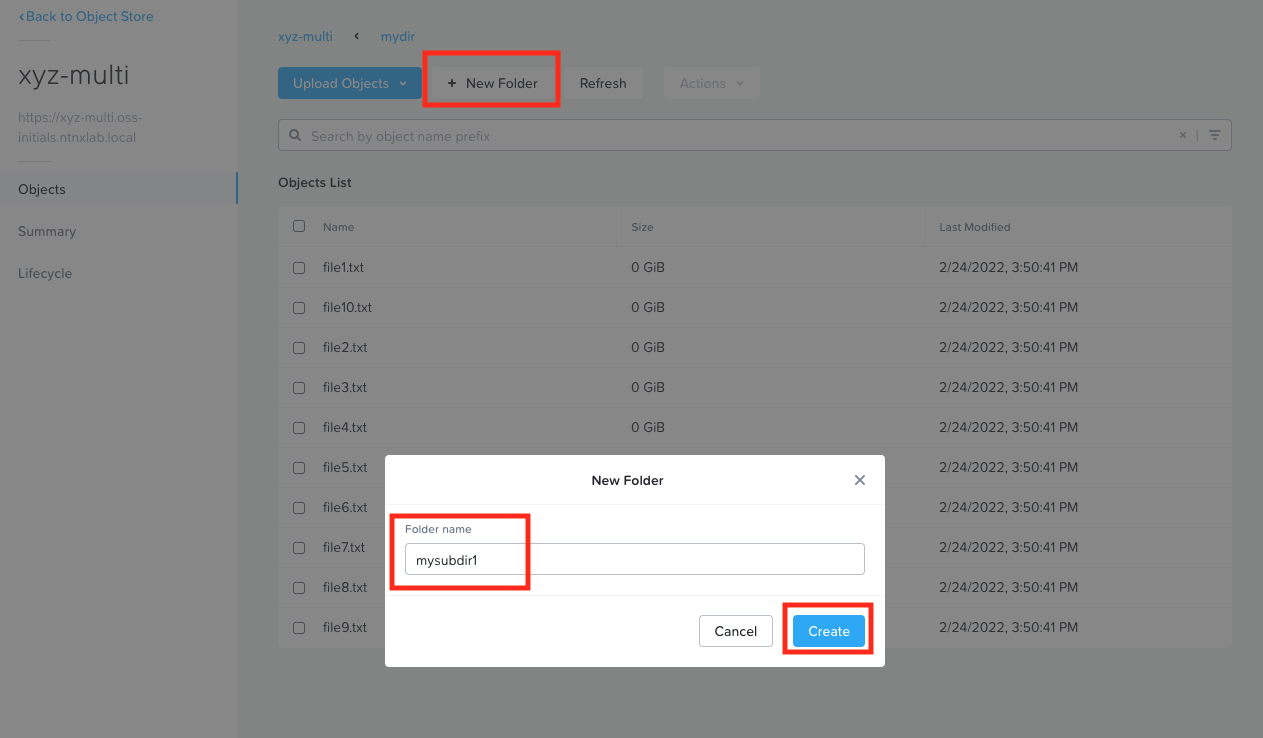
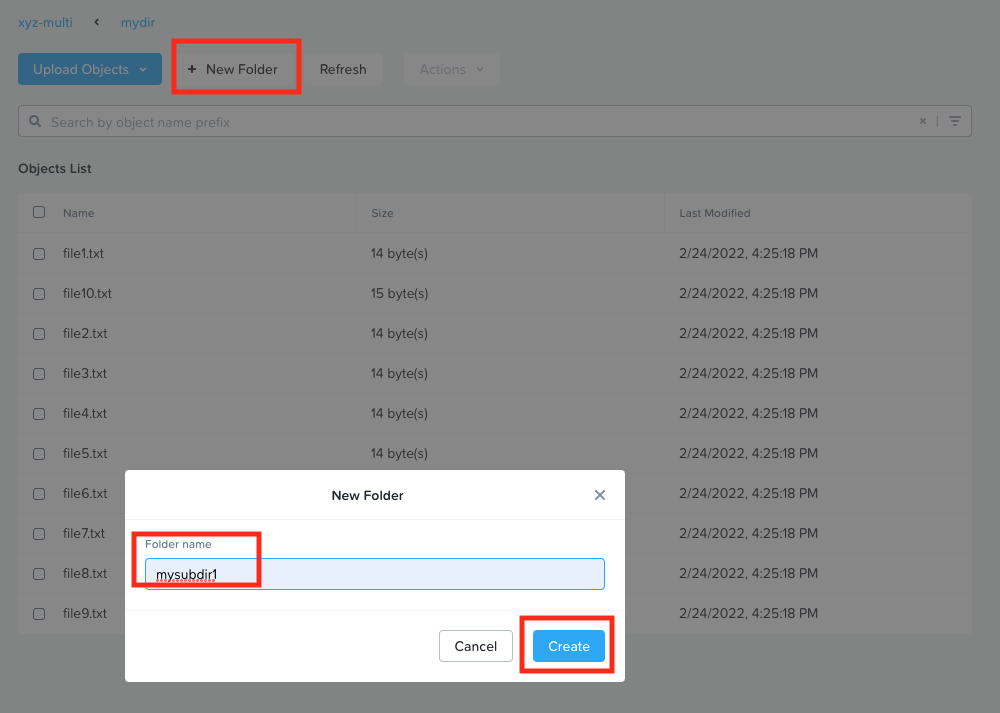
Thu Feb 24 18:32:32 JST 2022

diff --git a/objects_multiprotocol/objects_multiprotocol.rst b/objects_multiprotocol/objects_multiprotocol.rst
@@ -220,24 +220,23 @@ If it is not already present in your HPOC, create Linux Tools VM using instructi
      mkdir mydir1
      cd mydir1
      #
-     for i in {1..10}; do echo "writing file$i .."; touch file$i.txt; done
+     for i in {1..10}; do echo "writing file$i .."; touch file$i.txt; echo "this is file$i" > file$i.txt; done
      
      # list your files
      ll
 
      [centos@centos mydir1]$ ll
      # output here
-     # total 0
-     # -rw-rw-r-- 1 centos centos 0 Feb 23 22:36 file10.txt
-     # -rw-rw-r-- 1 centos centos 0 Feb 23 22:36 file1.txt
-     # -rw-rw-r-- 1 centos centos 0 Feb 23 22:36 file2.txt
-     # -rw-rw-r-- 1 centos centos 0 Feb 23 22:36 file3.txt
-     # -rw-rw-r-- 1 centos centos 0 Feb 23 22:36 file4.txt
-     # -rw-rw-r-- 1 centos centos 0 Feb 23 22:36 file5.txt
-     # -rw-rw-r-- 1 centos centos 0 Feb 23 22:36 file6.txt
-     # -rw-rw-r-- 1 centos centos 0 Feb 23 22:36 file7.txt
-     # -rw-rw-r-- 1 centos centos 0 Feb 23 22:36 file8.txt
-     # -rw-rw-r-- 1 centos centos 0 Feb 23 22:36 file9.txt
+      -rw-rw-r-- 1 centos centos   15 Feb 23 23:25 file10.txt
+      -rw-rw-r-- 1 centos centos   14 Feb 23 23:25 file1.txt
+      -rw-rw-r-- 1 centos centos   14 Feb 23 23:25 file2.txt
+      -rw-rw-r-- 1 centos centos   14 Feb 23 23:25 file3.txt
+      -rw-rw-r-- 1 centos centos   14 Feb 23 23:25 file4.txt
+      -rw-rw-r-- 1 centos centos   14 Feb 23 23:25 file5.txt
+      -rw-rw-r-- 1 centos centos   14 Feb 23 23:25 file6.txt
+      -rw-rw-r-- 1 centos centos   14 Feb 23 23:25 file7.txt
+      -rw-rw-r-- 1 centos centos   14 Feb 23 23:25 file8.txt
+      -rw-rw-r-- 1 centos centos   14 Feb 23 23:25 file9.txt
  
 #. Now go to the Objects browser GUI by going back to Prism Central
 
@@ -259,7 +258,7 @@ If it is not already present in your HPOC, create Linux Tools VM using instructi
 
 #. Click on **Login**
 
-#. Check if your folder and files are present in the *Intials*-multi bucket
+#. Check if your files are present in the *Intials*-multi bucket
 
    .. figure:: images/objects_list_multi_bucket.png
 
@@ -267,9 +266,17 @@ If it is not already present in your HPOC, create Linux Tools VM using instructi
 
     Although you see directories, these are mere objects. It is a mere representation of a folder like structure in Objects Browser. 
 
+#. Download one of the files, by selecting the file and selecting Download from the drop down menu.
+
+   .. figure:: images/objects_download_file.png
+
+#. Verify the contents of the file 
+   
+   .. figure:: images/file1_content.png
+
 #. Now create a new directory through Object Browser by clicking on **+ New Folder** and entering the name **mysubdir1** 
 
-#. Click on **Save**
+#. Click on **Create**
 
    .. figure:: images/objects_browser_subdir1.png
 
@@ -278,23 +285,23 @@ If it is not already present in your HPOC, create Linux Tools VM using instructi
    .. code-block:: bash
 
       [centos@centos mydir]$ ll
-      -rw-rw-r-- 1 centos centos    0 Feb 23 22:50 file10.txt
-      -rw-rw-r-- 1 centos centos    0 Feb 23 22:50 file1.txt
-      -rw-rw-r-- 1 centos centos    0 Feb 23 22:50 file2.txt
-      -rw-rw-r-- 1 centos centos    0 Feb 23 22:50 file3.txt
-      -rw-rw-r-- 1 centos centos    0 Feb 23 22:50 file4.txt
-      -rw-rw-r-- 1 centos centos    0 Feb 23 22:50 file5.txt
-      -rw-rw-r-- 1 centos centos    0 Feb 23 22:50 file6.txt
-      -rw-rw-r-- 1 centos centos    0 Feb 23 22:50 file7.txt
-      -rw-rw-r-- 1 centos centos    0 Feb 23 22:50 file8.txt
-      -rw-rw-r-- 1 centos centos    0 Feb 23 22:50 file9.txt
+      -rw-rw-r-- 1 centos centos   15 Feb 23 23:25 file10.txt
+      -rw-rw-r-- 1 centos centos   14 Feb 23 23:25 file1.txt
+      -rw-rw-r-- 1 centos centos   14 Feb 23 23:25 file2.txt
+      -rw-rw-r-- 1 centos centos   14 Feb 23 23:25 file3.txt
+      -rw-rw-r-- 1 centos centos   14 Feb 23 23:25 file4.txt
+      -rw-rw-r-- 1 centos centos   14 Feb 23 23:25 file5.txt
+      -rw-rw-r-- 1 centos centos   14 Feb 23 23:25 file6.txt
+      -rw-rw-r-- 1 centos centos   14 Feb 23 23:25 file7.txt
+      -rw-rw-r-- 1 centos centos   14 Feb 23 23:25 file8.txt
+      -rw-rw-r-- 1 centos centos   14 Feb 23 23:25 file9.txt
       drwxrwxrwx 2   8888   8888 4096 Feb 23 23:01 mysubdir1  # << this is the sub directory you created in Objects Browser
       
       # Note the the UID and GID for the directory created from Objects Browser side
       
 #. Add a few more folders and files from the Objects browser side and check if it shows on the NFS client side.
 
-You have successfully completed this lab.
+You have successfully completed this lab and tested multi-protocol access to a bucket. 
 
 Takeaways
 +++++++++
